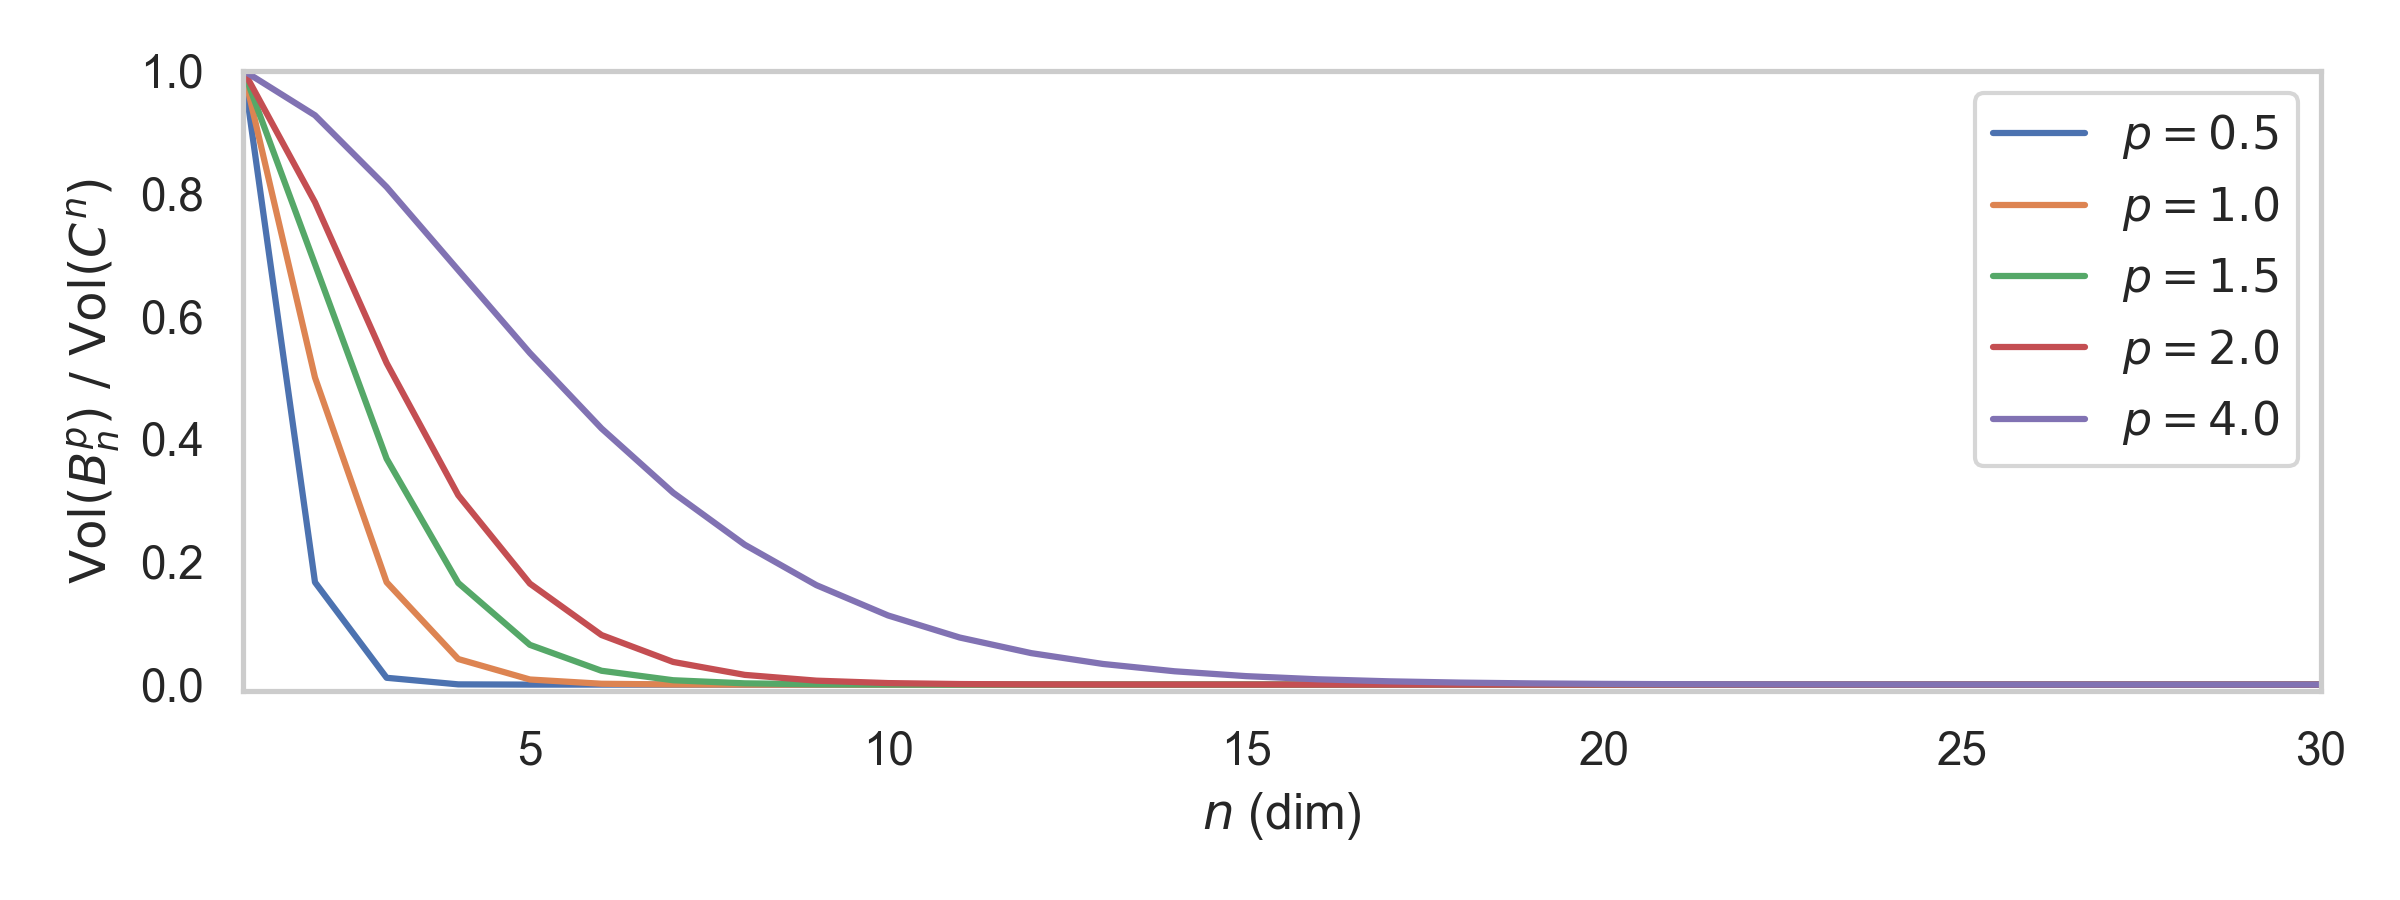
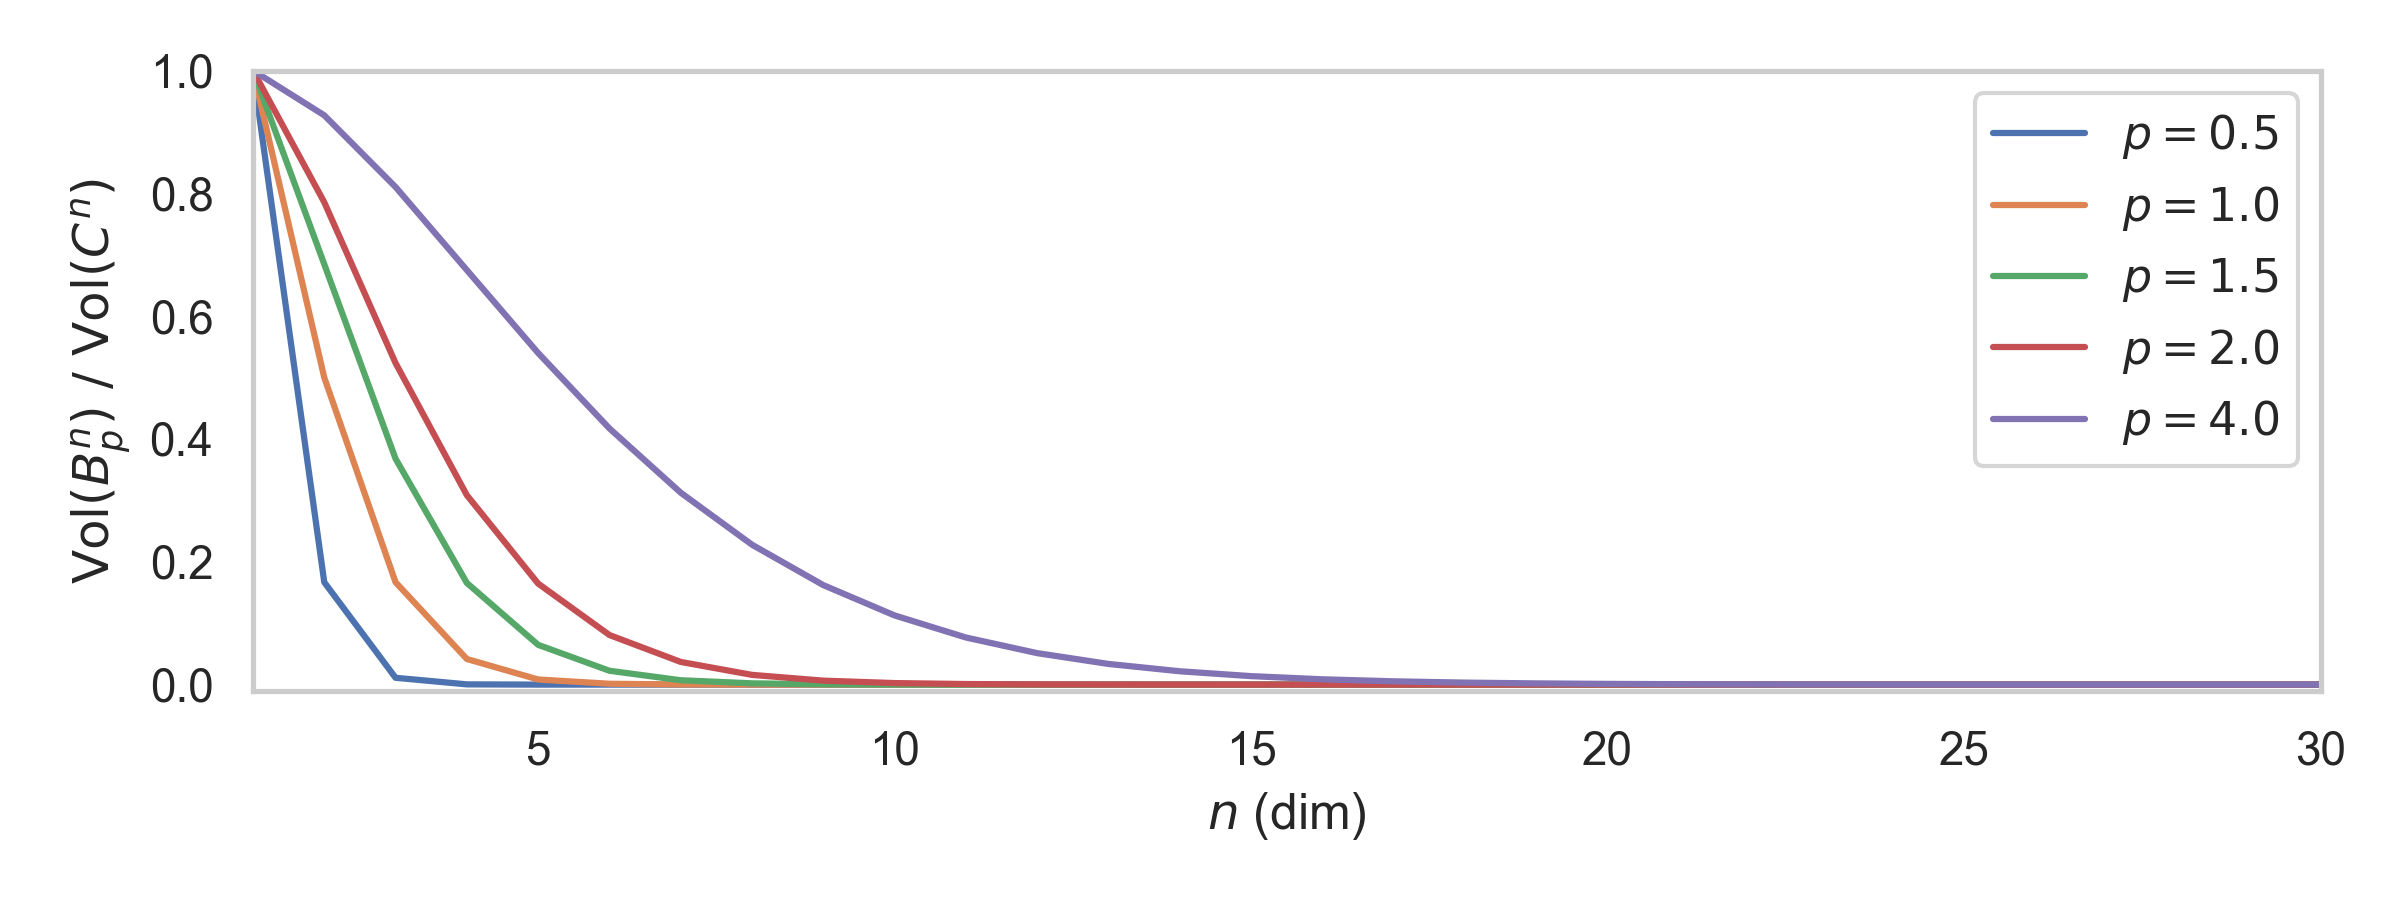
update talk

diff --git a/presentations/sphere-sampling-21-nov-2022/presentation.html b/presentations/sphere-sampling-21-nov-2022/presentation.html
@@ -34,24 +34,24 @@
 
 
 <section>
-<section id="slide-org6d82d4e">
-<h2 id="org6d82d4e"><span class="section-number-2">1.</span> Notation</h2>
+<section id="slide-org82021cd">
+<h2 id="org82021cd"><span class="section-number-2">1.</span> Notation</h2>
 <ul>
-<li class="fragment appear">\(\lVert x \rVert_p \stackrel{def}{=} \left( \sum_{k = 1}^n x^p \right)^{1 / p}\)</li>
-<li class="fragment appear">\(B_n^p \stackrel{def}{=} \left\{x \in \mathbb{R}^n \mid \lVert x \rVert_p \leq 1 \right\}\)</li>
-<li class="fragment appear">\(S_n^p \stackrel{def}{=} \partial B_{n + 1}^p\)</li>
-<li class="fragment appear">\(\mathcal{B}_n^p\) - uniform distribution on \(B_n^p\)</li>
-<li class="fragment appear">\(\mathcal{S}_n^p\) - uniform distribution on \(S_n^p\).</li>
+<li class="fragment appear">\(\lVert x \rVert_p \stackrel{def}{=} \left( \sum_{k = 1}^n \lvert x_k \rvert^p \right)^{1 / p}\)</li>
+<li class="fragment appear">\(B_p^n \stackrel{def}{=} \left\{x \in \mathbb{R}^n \mid \lVert x \rVert_p \leq 1 \right\}\)</li>
+<li class="fragment appear">\(S_p^n \stackrel{def}{=} \partial B^{n + 1}_p\)</li>
+<li class="fragment appear">\(\mathcal{B}_p^n\) - uniform distribution on \(B_p^n\)</li>
+<li class="fragment appear">\(\mathcal{S}_p^n\) - uniform distribution on \(S_p^n\).</li>
 
 </ul>
 
 </section>
 </section>
 <section>
-<section id="slide-org98c8640">
-<h2 id="org98c8640"><span class="section-number-2">2.</span> In Pictures</h2>
+<section id="slide-org6b2f7f7">
+<h2 id="org6b2f7f7"><span class="section-number-2">2.</span> In Pictures</h2>
 
-<div id="orgb1db315" class="figure">
+<div id="org29a5b1d" class="figure">
 <p><img src="./img/lp_spheres.png" alt="lp_spheres.png" />
 </p>
 </div>
@@ -59,41 +59,46 @@
 </section>
 </section>
 <section>
-<section id="slide-org51a322c">
-<h2 id="org51a322c"><span class="section-number-2">3.</span> First attempt</h2>
+<section id="slide-orgfd43f88">
+<h2 id="orgfd43f88"><span class="section-number-2">3.</span> First attempt</h2>
 <ul>
-<li class="fragment appear">For \(\mathcal{B}_n^p:\) Rejection sample with uniform proposal</li>
-<li class="fragment appear">For \(\mathcal{S}_n^p:\) Sample from \(\mathcal{B}_{n + 1}^p\), normalize</li>
+<li class="fragment appear">For \(\mathcal{B}_p^n:\) Rejection sample</li>
+<li class="fragment appear">Uniform proposal on \(C^n = [-1, 1]^n\)</li>
 
 </ul>
 
 </section>
 </section>
 <section>
-<section id="slide-orge2f970f">
-<h2 id="orge2f970f"><span class="section-number-2">4.</span> Problem w/ first attempt</h2>
+<section id="slide-org0ab35cd">
+<h2 id="org0ab35cd"><span class="section-number-2">4.</span> Problem w/ first attempt</h2>
 <p class="fragment (appear)">
-\[\mathrm{Vol}(B_n^p) = 2^n\frac{\Gamma\left(1 + \frac{1}{p}\right)^n}{\Gamma\left(1 + \frac{n}{p}\right)}\]
-   <img src="./img/cube_sphere_vol_ratio.png" alt="cube_sphere_vol_ratio.png" class="fragment (appear)" />
+\(\text{Accept prob} = \mathrm{Vol}(B_p^n) \, / \, \mathrm{Vol}(C^n)\)
 </p>
 
+
+<div id="org4321638" class="figure">
+<p><img src="./img/cube_sphere_vol_ratio.png" alt="cube_sphere_vol_ratio.png" class="fragment (appear)" />
+</p>
+</div>
+
 </section>
 </section>
 <section>
-<section id="slide-orgd65c38d">
-<h2 id="orgd65c38d"><span class="section-number-2">5.</span> Second attempt</h2>
+<section id="slide-org78afedd">
+<h2 id="org78afedd"><span class="section-number-2">5.</span> Second attempt</h2>
 <ul>
-<li class="fragment appear">\(n\) -dimensional Gaussian: \[\phi(x) = \mathcal{N}(x \mid 0, I)\]</li>
-<li class="fragment appear"><b>Observation:</b> for \(U \in \mathrm{SO}(n)\): \[\phi(Ux) = \phi(x)\]</li>
-<li class="fragment appear">For \(X \sim \mathcal{N}(0, I)\): \[ X \, / \, \lVert X \rVert_2 \sim \mathcal{S}_n^2 \]</li>
+<li class="fragment appear">\(n\) -dimensional Gaussian: \(X \sim \mathcal{N}(0, I)\)</li>
+<li class="fragment appear"><b>Observation:</b> for \(O \in \mathrm{SO}(n)\): \[ X \sim OX \quad \Rightarrow \frac{X}{\lVert X \rVert_2} \sim \frac{OX}{\lVert X \rVert_2} = \frac{OX}{\lVert OX \rVert_2} \]</li>
+<li class="fragment appear"><b>Hence:</b> \(X \, / \, \lVert X \rVert_2 \sim \mathcal{S}^{n-1}_2\)</li>
 
 </ul>
 
 </section>
 </section>
 <section>
-<section id="slide-orgf95919f">
-<h2 id="orgf95919f"><span class="section-number-2">6.</span> Why did this trick work?</h2>
+<section id="slide-orgea85709">
+<h2 id="orgea85709"><span class="section-number-2">6.</span> Why did this trick work?</h2>
 <p class="fragment (appear)">
 Spherical symmetry \(\Leftrightarrow\) " \(L_2\) -symmetry "
 </p>
@@ -107,17 +112,17 @@ Spherical symmetry \(\Leftrightarrow\) " \(L_2\) -symmetry "
 </p>
 
 <p class="fragment (appear)">
-\[\mathcal{N}^p(x \mid 0, I) \propto e^{-\frac{\lVert x \rVert_p^p}{2}}\]
+\[\mathcal{N}_p(x \mid 0, I) \propto e^{-\frac{\lVert x \rVert_p^p}{2}}\]
 </p>
 
 </section>
 </section>
 <section>
-<section id="slide-orge62224c">
-<h2 id="orge62224c"><span class="section-number-2">7.</span> Recipe for L<sub>p</sub> spheres</h2>
+<section id="slide-orgec728c2">
+<h2 id="orgec728c2"><span class="section-number-2">7.</span> Recipe for L<sub>p</sub> spheres</h2>
 <ul>
-<li class="fragment appear">Draw \(X \sim \mathcal{N}^p(x \mid 0, I)\).</li>
-<li class="fragment appear">Then \[ X \, / \, \lVert X \rVert_p \sim \mathcal{S}_{n - 1}^p \]</li>
+<li class="fragment appear">Draw \(X \sim \mathcal{N}_p(x \mid 0, I)\).</li>
+<li class="fragment appear">Then \[ X \, / \, \lVert X \rVert_p \sim \mathcal{S}^{n - 1}_p \]</li>
 <li class="fragment appear">Drawing \(X\) can be done dimensionwise!</li>
 
 </ul>
@@ -125,23 +130,23 @@ Spherical symmetry \(\Leftrightarrow\) " \(L_2\) -symmetry "
 </section>
 </section>
 <section>
-<section id="slide-org350bd01">
-<h2 id="org350bd01"><span class="section-number-2">8.</span> L<sub>p</sub> spherical distributions</h2>
+<section id="slide-org90dc457">
+<h2 id="org90dc457"><span class="section-number-2">8.</span> L<sub>p</sub> spherical distributions</h2>
 <ul>
-<li class="fragment appear">\(L_p\) spherical RV: \[Z = R \times U, \quad U \sim \mathcal{S}_n^p, R > 0\]</li>
-<li class="fragment appear">\(Z \sim \mathcal{S}_n^p\): \(\quad R = 1\).</li>
-<li class="fragment appear">\(Z \sim \mathcal{N}^p\): \(\quad R^p \sim \chi^2(2n \, /\, p)\).</li>
-<li class="fragment appear">\(Z \sim \mathcal{B}_n^p\): \(\quad \mathbb{P}[R < r] = \min\{r, 1\}^n\).</li>
+<li class="fragment appear">\(L_p\) spherical RV: \[Z = R \times U, \quad U \sim \mathcal{S}_p^n, R > 0\]</li>
+<li class="fragment appear">\(Z \sim \mathcal{S}_p^n\): \(\quad R = 1\).</li>
+<li class="fragment appear">\(Z \sim \mathcal{N}_p\): \(\quad R^p \sim \chi^2(2n \, /\, p)\).</li>
+<li class="fragment appear">\(Z \sim \mathcal{B}_p^n\): \(\quad \mathbb{P}[R < r] = \min\{r, 1\}^n\).</li>
 
 </ul>
 
 </section>
 </section>
 <section>
-<section id="slide-org6a56be9">
-<h2 id="org6a56be9"><span class="section-number-2">9.</span> How special is our trick?</h2>
+<section id="slide-org90f2688">
+<h2 id="org90f2688"><span class="section-number-2">9.</span> How special is our trick?</h2>
 
-<div id="org3d46d4a" class="figure">
+<div id="org380e9c6" class="figure">
 <p><img src="./img/factorial_lp_spherical_dists.png" alt="factorial_lp_spherical_dists.png" class="fragment (appear)" />
 </p>
 </div>
@@ -150,24 +155,24 @@ Spherical symmetry \(\Leftrightarrow\) " \(L_2\) -symmetry "
 </section>
 </section>
 <section>
-<section id="slide-org75eb6df">
-<h2 id="org75eb6df"><span class="section-number-2">10.</span> A third way for L<sub>p</sub> balls</h2>
+<section id="slide-org049869a">
+<h2 id="org049869a"><span class="section-number-2">10.</span> A third way for L<sub>p</sub> balls</h2>
 <ul>
-<li class="fragment appear">Let \(U \sim \mathcal{S}_{n - 1}^p\)</li>
+<li class="fragment appear">Let \(U \sim \mathcal{S}^{n - 1}_p\)</li>
 <li class="fragment appear">Then \(U = U_{1:n} = (U_1, \dots, U_{n})\)</li>
 <li class="fragment appear">\(U_{1:k} \sim ?\)</li>
 
 </ul>
 
 <p class="fragment (appear)">
-<b>Theorem:</b> \(U_{1:n - p} \sim \mathcal{B}_{n - p}^p\)
+<b>Theorem:</b> \(U_{1:n - p} \sim \mathcal{B}^{n - p}_p\)
 </p>
 
 </section>
 </section>
 <section>
-<section id="slide-org7b839e4">
-<h2 id="org7b839e4"><span class="section-number-2">11.</span> References</h2>
+<section id="slide-org03069b2">
+<h2 id="org03069b2"><span class="section-number-2">11.</span> References</h2>
 <ul>
 <li>Wang, X. (2005). Volumes of generalized unit balls. Mathematics Magazine, 78(5), 390-395.</li>
 <li>Sinz, F., Gerwinn, S., &amp; Bethge, M. (2009). Characterization of the p-generalized normal distribution. Journal of Multivariate Analysis, 100(5), 817-820.</li>
